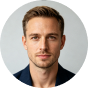
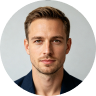
Fix mobile results carousel and testimonials

diff --git a/public/landing-v3.css b/public/landing-v3.css
@@ -485,10 +485,6 @@
   min-height: 56px;
 }
 
-.s2ResultsReserve {
-  display: none;
-}
-
 /* ---------------------------------------------------------------------
    Auto-Fade additions
    --------------------------------------------------------------------- */
@@ -2301,12 +2297,22 @@
     max-height: none;
     margin-top: calc(52 / 1080 * 100vw);
     overflow: hidden;
+    overflow: clip;
+    overflow-anchor: none;
+    scroll-padding: 0;
+    scroll-snap-type: none;
+    touch-action: pan-y pinch-zoom;
+  }
+
+  .s2ResultsRing {
+    transform: translate3d(var(--result-drag-offset, 0px), 0, 0) !important;
   }
 
   .s2ResultSlot {
     max-width: none;
     max-height: none;
     border-radius: calc(24 / 1080 * 100vw);
+    scroll-snap-align: none;
   }
 
   .s2ResultSlot[data-slot="-2"] {
@@ -2347,31 +2353,6 @@
   .s2ResultSlot .s2ResultPlay,
   .s2ResultsArrow {
     display: none;
-  }
-
-  .s2ResultsReserve {
-    position: absolute;
-    z-index: 8;
-    top: calc(425 / 1080 * 100vw);
-    left: calc(340 / 1080 * 100vw);
-    display: grid;
-    place-items: center;
-    width: calc(400 / 1080 * 100vw);
-    height: calc(110 / 1080 * 100vw);
-    min-height: 44px;
-    padding: 0 calc(20 / 1080 * 100vw);
-    background: url("/assets/v3/results-reserve-mobile.svg") center / 100% 100% no-repeat;
-    color: #fff;
-    font: 700 calc(28 / 1080 * 100vw)/1 Montserrat, Arial, sans-serif;
-    text-align: center;
-    text-decoration: none;
-    text-transform: uppercase;
-  }
-
-  .s2ResultsReserve:focus-visible {
-    outline: 2px solid #fff;
-    outline-offset: 3px;
-    border-radius: 999px;
   }
 
   /* How To Use: the current mobile board uses the desktop semantic header. */
@@ -2746,47 +2727,113 @@
     width: calc(351 / 1080 * 100vw);
     height: calc(380 / 1080 * 100vw);
     padding: 0;
+    overflow: hidden;
+    background: transparent url("/assets/v3/testimonial-card-mobile.svg") center / 100% 100% no-repeat;
+  }
+
+  .s2QuoteCard:nth-child(n + 4) {
+    display: none;
   }
 
   .s2QuoteStars {
     top: calc(32 / 1080 * 100vw);
     left: calc(22 / 1080 * 100vw);
-    gap: calc(12.437 / 1080 * 100vw);
+    display: block;
+    width: calc(136.313 / 1080 * 100vw);
+    height: calc(17.739 / 1080 * 100vw);
+    background: none;
   }
 
   .s2QuoteStars span {
+    position: absolute;
+    top: 0;
     width: calc(17.563 / 1080 * 100vw);
     height: calc(17.563 / 1080 * 100vw);
+    background: transparent url("/assets/v3/testimonial-star-on.svg") center / 100% 100% no-repeat;
+    clip-path: none;
+  }
+
+  .s2QuoteStars span:nth-child(1) { left: 0; }
+  .s2QuoteStars span:nth-child(2) { left: calc(30 / 1080 * 100vw); }
+  .s2QuoteStars span:nth-child(3) { left: calc(60 / 1080 * 100vw); }
+  .s2QuoteStars span:nth-child(4) { left: calc(90 / 1080 * 100vw); }
+  .s2QuoteStars span:nth-child(5) { left: calc(118.75 / 1080 * 100vw); }
+
+  .s2QuoteStars span[data-off="true"] {
+    background: transparent url("/assets/v3/testimonial-star-off.svg") center / 100% 100% no-repeat;
+  }
+
+  .s2QuoteStars[data-rating="5"] {
+    background: transparent url("/assets/v3/testimonial-stars-five.svg") center / 100% 100% no-repeat;
+  }
+
+  .s2QuoteStars[data-rating="5"] span {
+    display: none;
   }
 
   .s2QuoteText {
     top: calc(74 / 1080 * 100vw);
     left: calc(22 / 1080 * 100vw);
     width: calc(303 / 1080 * 100vw);
+    margin: 0;
     font-size: calc(24 / 1080 * 100vw);
     line-height: calc(28 / 1080 * 100vw);
+  }
+
+  .s2QuoteInitial {
+    text-transform: uppercase;
   }
 
   .s2QuoteBy {
     top: calc(289 / 1080 * 100vw);
     left: calc(22 / 1080 * 100vw);
+    display: block;
     width: calc(303 / 1080 * 100vw);
-    gap: calc(16 / 1080 * 100vw);
-    padding-top: calc(20 / 1080 * 100vw);
+    height: calc(71 / 1080 * 100vw);
+    margin: 0;
+    padding: 0;
+    border: 0;
+  }
+
+  .s2QuoteBy::before {
+    content: "";
+    position: absolute;
+    top: 0;
+    left: 0;
+    width: 100%;
+    height: calc(1 / 1080 * 100vw);
+    background: rgba(217, 217, 217, 0.1);
+  }
+
+  .s2QuoteBy > div {
+    position: absolute;
+    top: calc(21 / 1080 * 100vw);
+    left: calc(64 / 1080 * 100vw);
+    width: max-content;
   }
 
   .s2QuoteBy img {
+    position: absolute;
+    top: calc(21 / 1080 * 100vw);
+    left: 0;
     width: calc(48 / 1080 * 100vw);
     height: calc(48 / 1080 * 100vw);
   }
 
   .s2QuoteName {
+    display: block;
     font-size: calc(24 / 1080 * 100vw);
     font-weight: 600;
+    line-height: calc(29 / 1080 * 100vw);
   }
 
   .s2QuoteMeta {
+    display: block;
+    margin-top: calc(2 / 1080 * 100vw);
+    color: rgba(255, 255, 255, 0.5);
     font-size: calc(16 / 1080 * 100vw);
+    line-height: calc(20 / 1080 * 100vw);
+    white-space: nowrap;
   }
 
   .faq {

diff --git a/components/sections/ResultsSection.tsx b/components/sections/ResultsSection.tsx
@@ -307,6 +307,7 @@ export function ResultsSection() {
     const track = trackRef.current;
     pointerDragRef.current = null;
 
+    if (viewport) viewport.scrollLeft = 0;
     if (gesture && viewport?.hasPointerCapture(gesture.pointerId)) {
       viewport.releasePointerCapture(gesture.pointerId);
     }
@@ -326,8 +327,8 @@ export function ResultsSection() {
   function handlePointerDown(event: ReactPointerEvent<HTMLDivElement>) {
     if (!event.isPrimary || event.button !== 0) return;
     const target = event.target as Element;
-    if (target.closest(".s2ResultsReserve")) return;
     if (event.pointerType !== "mouse" && !target.closest(".s2ResultSlot")) return;
+    event.currentTarget.scrollLeft = 0;
     event.currentTarget.removeAttribute("data-drag-committed");
 
     // Leave a narrow touch-only edge free for the browser's system back gesture.
@@ -443,7 +444,9 @@ export function ResultsSection() {
 
   function handleTrackTransitionEnd(event: ReactTransitionEvent<HTMLDivElement>) {
     if (event.target !== event.currentTarget || event.propertyName !== "transform") return;
-    viewportRef.current?.removeAttribute("data-drag-committed");
+    const viewport = viewportRef.current;
+    viewport?.removeAttribute("data-drag-committed");
+    if (viewport) viewport.scrollLeft = 0;
   }
 
   function handleCarouselKeyDown(event: KeyboardEvent<HTMLDivElement>) {
@@ -490,6 +493,15 @@ export function ResultsSection() {
       window.clearTimeout(wheelGestureTimer);
     };
   }, []);
+
+  // The legacy mobile carousel used native scroll snapping on this same
+  // element. Keep its scroll position neutral across every ring phase so an
+  // older Safari or an in-place HMR update cannot translate the five absolute
+  // slots away from their symmetric Figma positions.
+  useEffect(() => {
+    const viewport = viewportRef.current;
+    if (viewport && viewport.scrollLeft !== 0) viewport.scrollLeft = 0;
+  }, [centerIndex, motion]);
 
   const directionName = motion?.direction === 1 ? "next" : motion ? "previous" : "none";
 
@@ -633,10 +645,6 @@ export function ResultsSection() {
             );
           })}
         </div>
-
-        <a className="s2ResultsReserve" href="/deposit">
-          Reserve Now
-        </a>
       </div>
     </section>
   );

diff --git a/components/sections/TestimonialsSection.tsx b/components/sections/TestimonialsSection.tsx
@@ -1,7 +1,8 @@
 import { testimonials } from "@/lib/content";
 
 // Testimonials — rebuilt from the current desktop/mobile landing-page frames.
-// Four 351×364 cards from x228 with a 21px gap, centred on the 1920 grid.
+// Desktop keeps four 351×364 cards; Figma 725:319 uses three 351×380 cards
+// on mobile, beginning at x60 with a 20px gap on the 1080-wide board.
 
 export function TestimonialsSection() {
   return (
@@ -20,12 +21,22 @@ export function TestimonialsSection() {
                 className="s2QuoteStars"
                 role="img"
                 aria-label={`${filled} out of 5 stars`}
+                data-rating={filled}
               >
                 {Array.from({ length: 5 }, (_, star) => (
                   <span key={star} data-off={star >= filled} aria-hidden="true" />
                 ))}
               </div>
-              <p className="s2QuoteText">{quote.quote}</p>
+              <p className="s2QuoteText">
+                {index === 2 ? (
+                  <>
+                    &quot;<span className="s2QuoteInitial">I</span>
+                    {quote.quote.slice(2)}
+                  </>
+                ) : (
+                  quote.quote
+                )}
+              </p>
               <div className="s2QuoteBy">
                 {/* eslint-disable-next-line @next/next/no-img-element */}
                 <img src={`/assets/v3/avatar-${index + 1}.png`} alt="" loading="lazy" />
